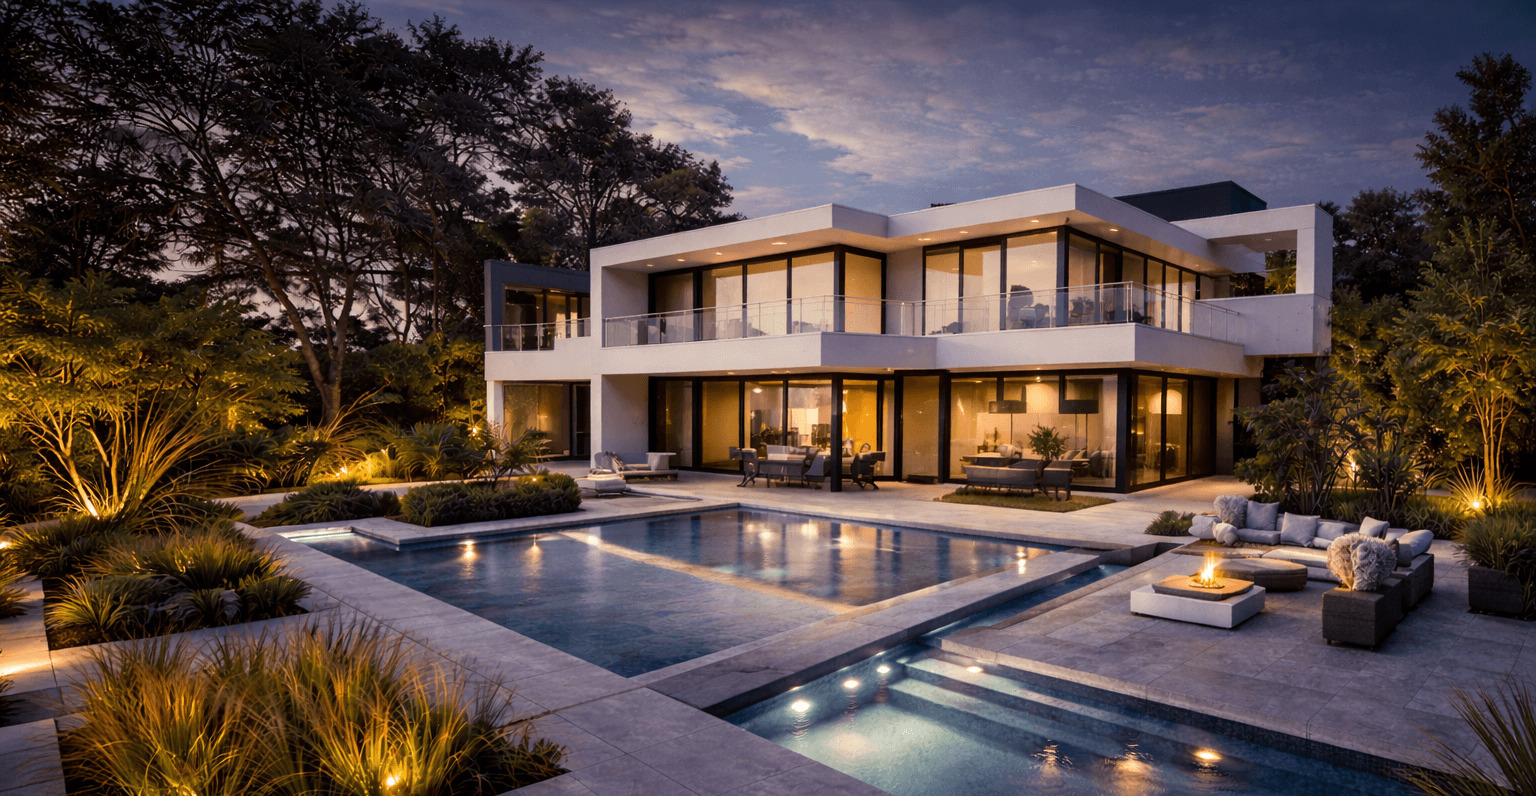
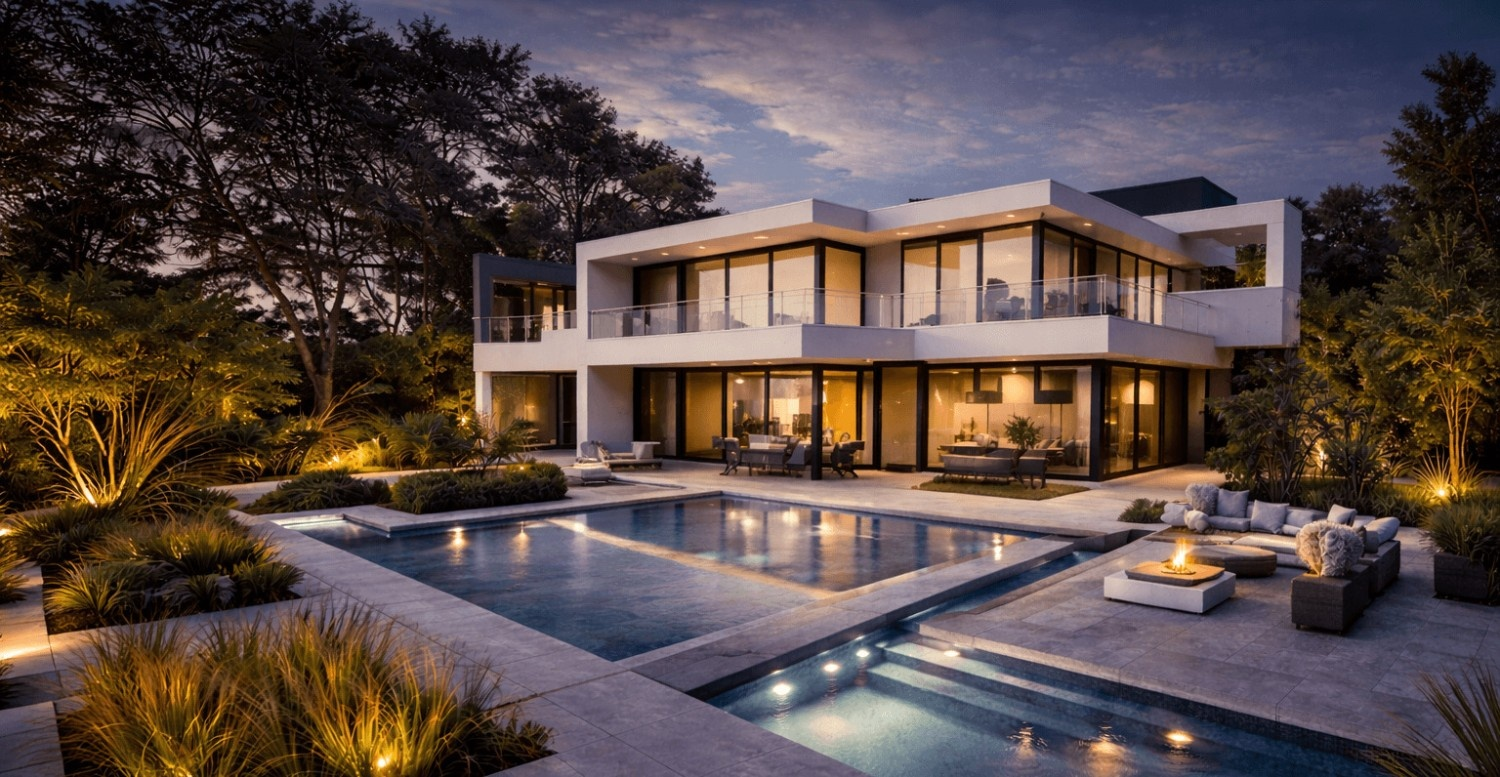
Performance: Reaching 95+ score with aggressive code-splitting and modern-only transpilation.

diff --git a/src/app/page.tsx b/src/app/page.tsx
@@ -5,15 +5,18 @@ import Link from 'next/link';
 import Image from 'next/image';
 import { motion } from 'framer-motion';
 import { ArrowRight, MessageCircle, Calculator, Palette, CheckCircle, Award, Star, Truck, Users, Clock, Sparkles, Gift, Wrench, ShoppingCart } from 'lucide-react';
-import { PaintCalculator } from '@/components/PaintCalculator';
-import { FAQ } from '@/components/FAQ';
-import { TestimonialSlider } from '@/components/TestimonialSlider';
-import { ReviewForm } from '@/components/ReviewForm';
-import { ProductCard } from '@/components/ProductCard';
-import { BrandSection } from '@/components/BrandSection';
 import { createClient } from '@/lib/supabase/client';
 import { useSettings } from '@/lib/hooks/useSettings';
-import { ValuePromotion } from '@/components/ValuePromotion';
+import dynamic from 'next/dynamic';
+
+const PaintCalculator = dynamic(() => import('@/components/PaintCalculator').then(mod => mod.PaintCalculator), { ssr: true });
+const FAQ = dynamic(() => import('@/components/FAQ').then(mod => mod.FAQ), { ssr: true });
+const TestimonialSlider = dynamic(() => import('@/components/TestimonialSlider').then(mod => mod.TestimonialSlider), { ssr: true });
+const ReviewForm = dynamic(() => import('@/components/ReviewForm').then(mod => mod.ReviewForm), { ssr: true });
+const BrandSection = dynamic(() => import('@/components/BrandSection').then(mod => mod.BrandSection), { ssr: true });
+const ValuePromotion = dynamic(() => import('@/components/ValuePromotion').then(mod => mod.ValuePromotion), { ssr: true });
+
+import { ProductCard } from '@/components/ProductCard';
 import { Product, Category } from '@/types';
 
 const staticDealsCategory = {
@@ -93,7 +96,7 @@ export default function HomePage() {
               decoding="sync"
               fetchPriority="high"
               sizes="100vw"
-              quality={65}
+              quality={50}
               className="object-cover object-center"
             />
           </div>
